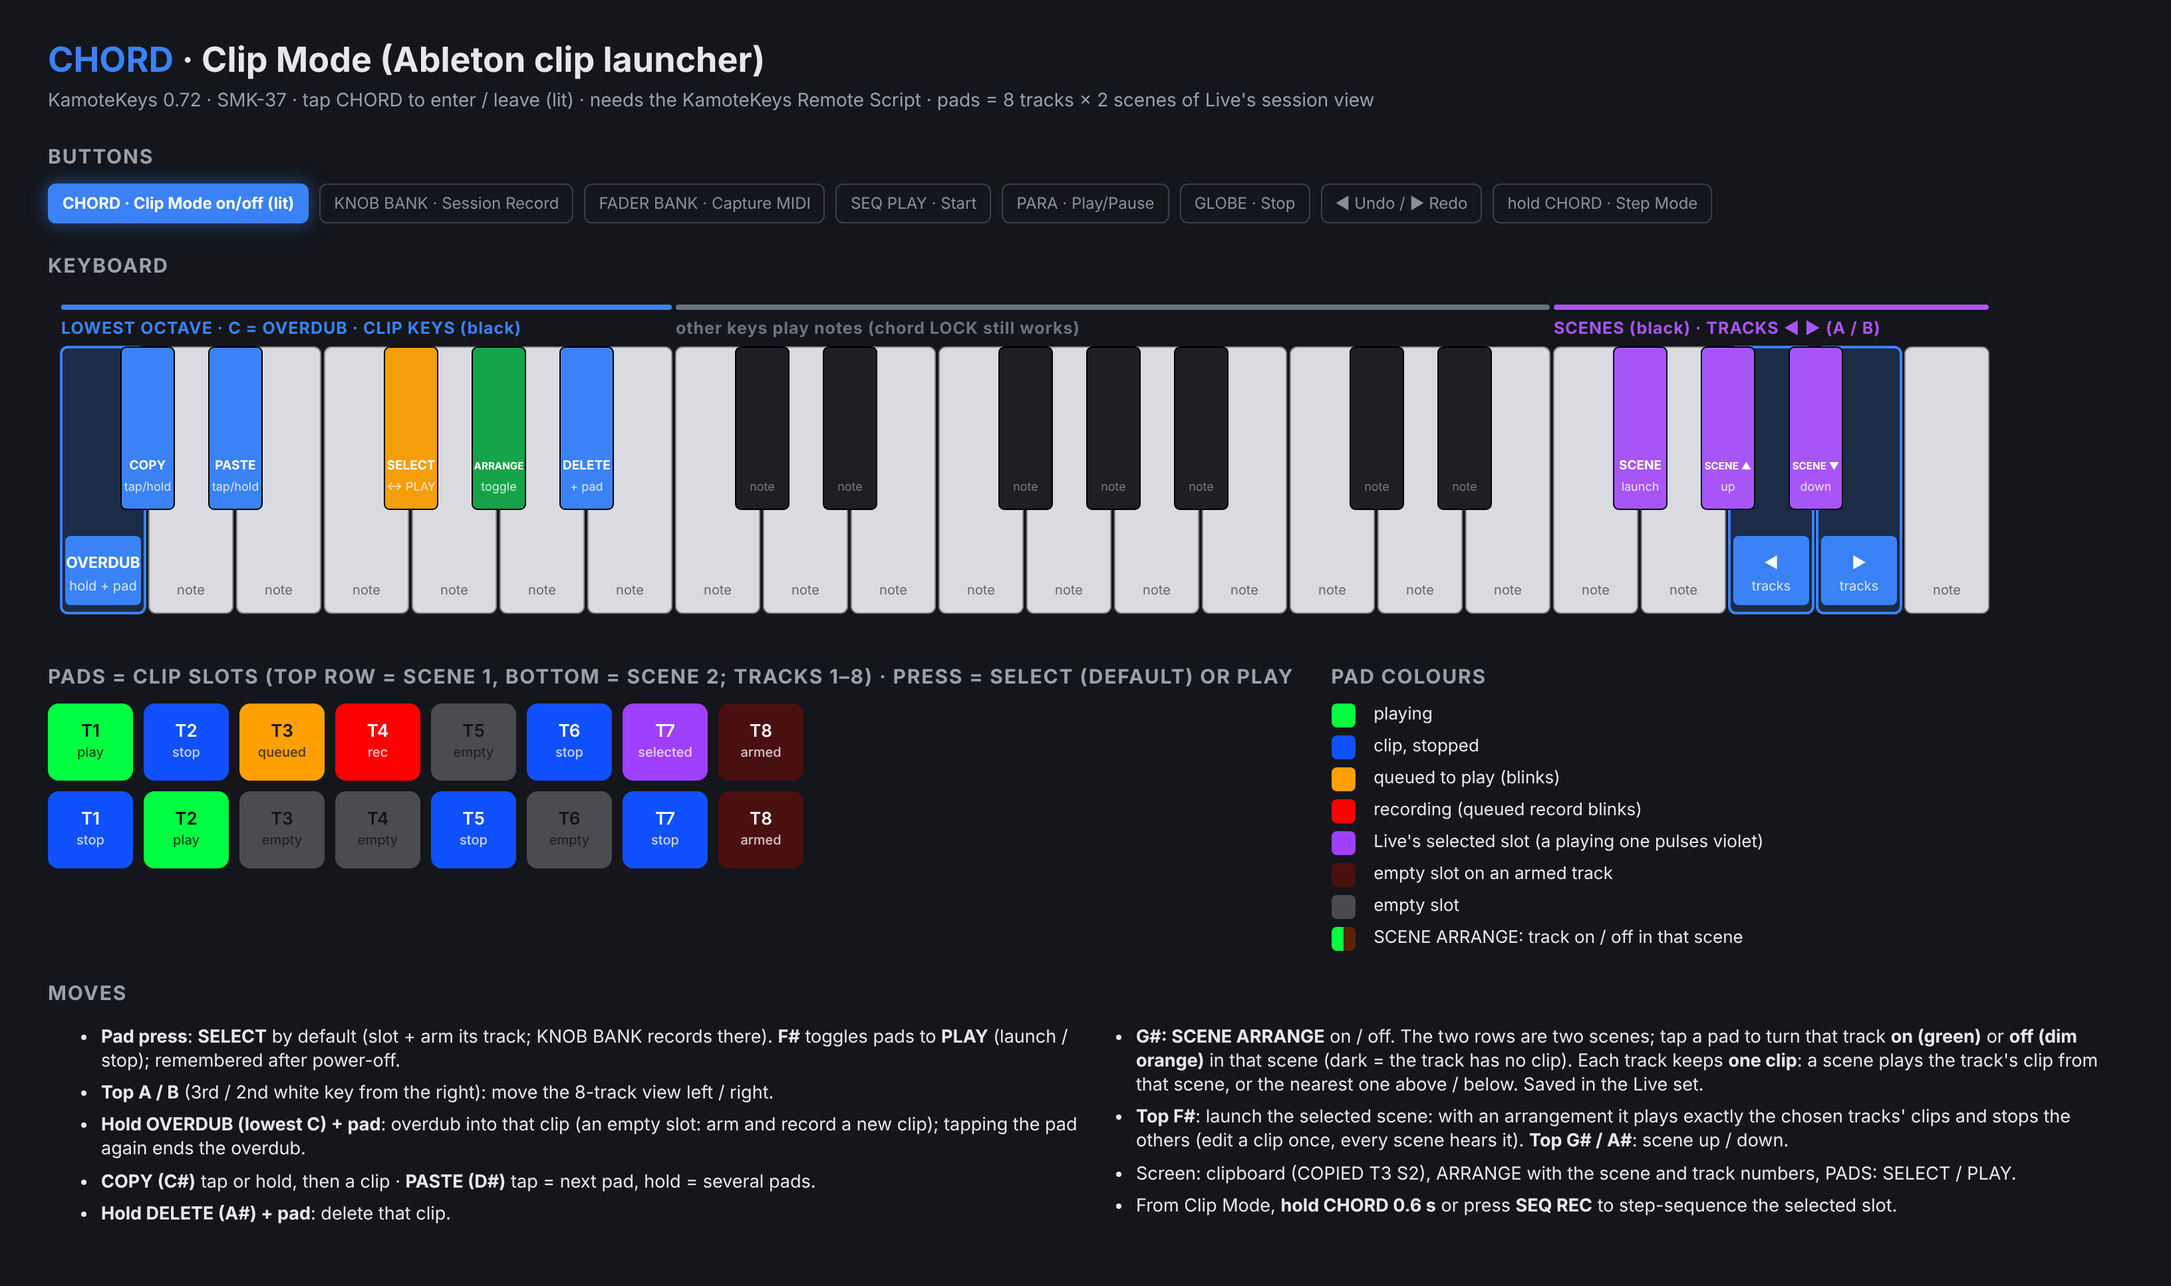
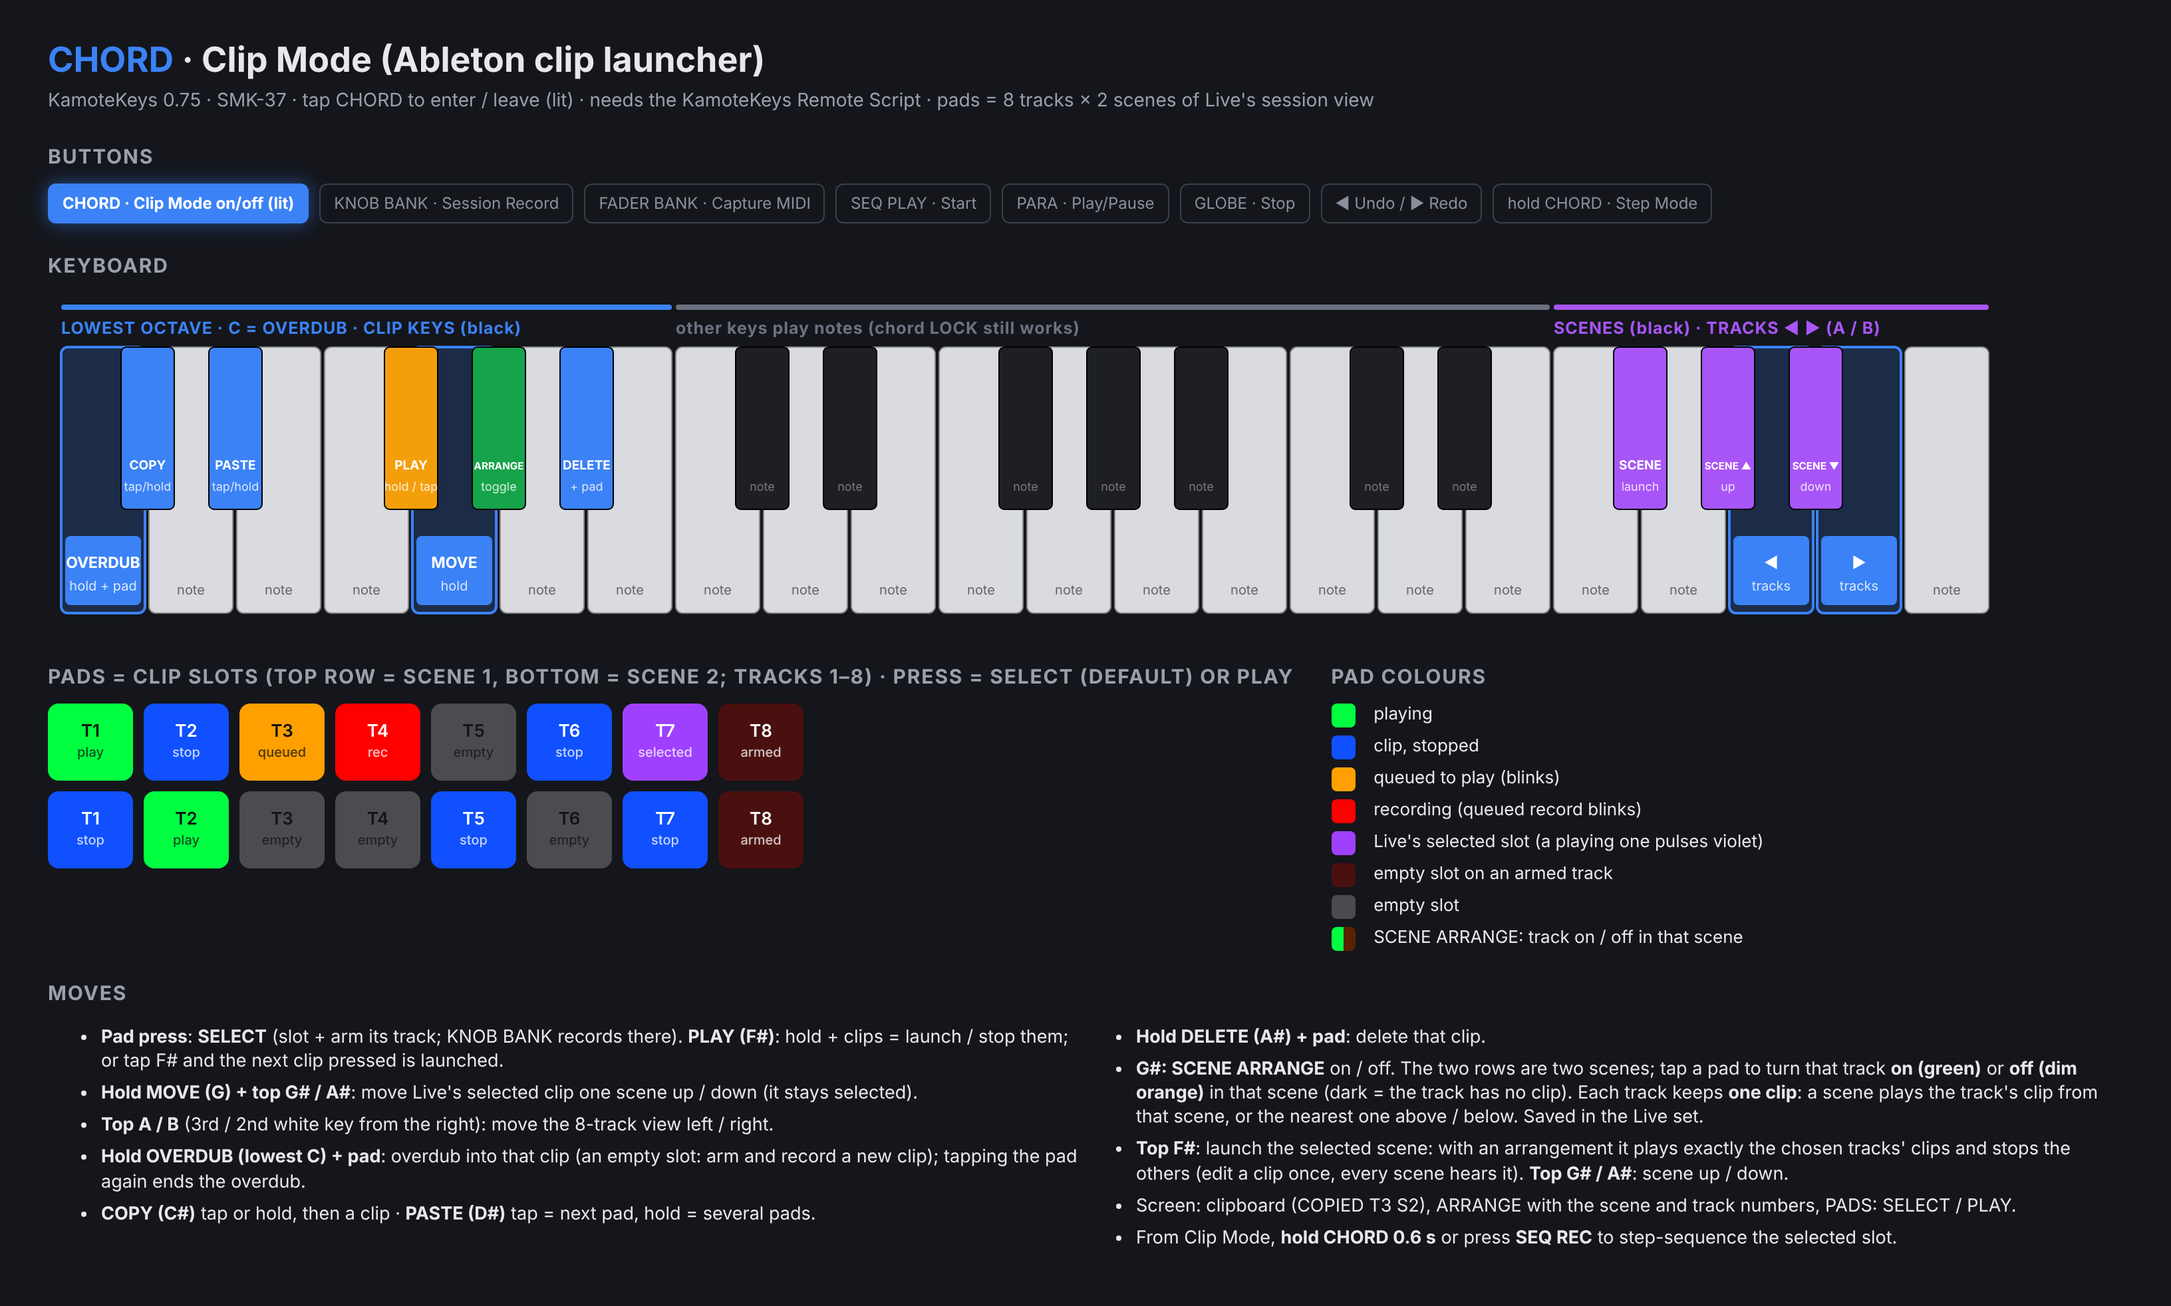
KamoteKeys 0.75: Clip Mode PLAY key (hold / tap + clip), move the selected clip with G + top G#/A#
Claude-Session: https://claude.ai/code/session_014nKCDtX9z2HT4cnrjTFgfW

diff --git a/remote_script/KamoteKeys/KamoteKeys.py b/remote_script/KamoteKeys/KamoteKeys.py
@@ -55,6 +55,7 @@ COPY_CLIP = 1
 ARRANGE_NOTE = 102                     # 0.66: Scene Arrange on / off
 TRACKS_CC, ARRANGE_CC = 109, 110       # first track shown, Scene Arrange on (to the keyboard)
 CC_TRACKS_LEFT, CC_TRACKS_RIGHT = 31, 32
+CC_CLIP_UP, CC_CLIP_DOWN = 33, 34       # 0.75: move Live's selected clip a scene up / down
 ARR_ON, ARR_OFF, ARR_NONE = 7, 8, 9
 ARRANGE_KEY = 'kamotekeys_arrange'     # per-scene track lists, saved in the Live set
 STEP_TIMEOUT = 6.0                     # s without a Step Mode heartbeat: leave it
@@ -69,7 +70,8 @@ CC_START, CC_STOP, CC_CAPTURE, CC_UNDO, CC_RECORD, CC_REDO = 20, 21, 22, 24, 25,
 CC_PLAY_PAUSE, CC_METRONOME = 23, 26
 CC_SCENE_DOWN, CC_SCENE_UP, CC_SCENE_LAUNCH = 28, 29, 30
 TRANSPORT_CCS = (CC_START, CC_STOP, CC_CAPTURE, CC_UNDO, CC_RECORD, CC_REDO, CC_PLAY_PAUSE, CC_METRONOME,
-                 CC_SCENE_DOWN, CC_SCENE_UP, CC_SCENE_LAUNCH, CC_TRACKS_LEFT, CC_TRACKS_RIGHT)
+                 CC_SCENE_DOWN, CC_SCENE_UP, CC_SCENE_LAUNCH, CC_TRACKS_LEFT, CC_TRACKS_RIGHT,
+                 CC_CLIP_UP, CC_CLIP_DOWN)
 
 EMPTY, STOPPED, PLAYING, QUEUED, RECORDING, QUEUED_RECORD, EMPTY_ARMED = range(7)
 FULL_REFRESH_TICKS = 50      # update_display runs ~10 Hz: full resend every ~5 s
@@ -376,6 +378,47 @@ class KamoteKeys(ControlSurface):
             pass
         self._status('KamoteKeys: launch scene %s' % ('?' if index is None else index + 1))
 
+    # ------------------------------------------------- move a clip (0.75)
+    def _move_clip(self, delta):
+        """Move Live's selected clip one scene up / down (into an empty slot;
+        an occupied slot is swapped with it). The moved clip stays selected."""
+        song = self.song()
+        view = song.view
+        tracks = list(song.visible_tracks)
+        t = next((i for i, x in enumerate(tracks) if self._same(x, view.selected_track)), None)
+        scenes = list(song.scenes)
+        s = next((i for i, x in enumerate(scenes) if self._same(x, view.selected_scene)), None)
+        if t is None or s is None:
+            self._status('KamoteKeys: select a clip to move')
+            return
+        slots = list(tracks[t].clip_slots)
+        target = s + delta
+        if not (0 <= target < len(slots)) or not slots[s].has_clip:
+            self._status('KamoteKeys: no clip to move there')
+            return
+        source, dest = slots[s], slots[target]
+        try:
+            if dest.has_clip:
+                # Swap through the source: keep a copy of the target in a new scene, then put it back.
+                song.create_scene(-1)
+                spare = list(tracks[t].clip_slots)[-1]
+                dest.duplicate_clip_to(spare)
+                source.duplicate_clip_to(dest)
+                spare.duplicate_clip_to(source)
+                spare.delete_clip()
+                song.delete_scene(len(list(song.scenes)) - 1)
+            else:
+                source.duplicate_clip_to(dest)
+                source.delete_clip()
+            view.selected_scene = list(song.scenes)[target]
+            view.highlighted_clip_slot = dest
+            if not (self._scene <= target < self._scene + SCENES):
+                self._scene = max(0, min(len(scenes) - SCENES, target if delta > 0 else target - 1))
+                self._send_all()
+            self._status('KamoteKeys: moved %s to scene %d' % (tracks[t].name, target + 1))
+        except Exception as error:
+            self._status('KamoteKeys: cannot move the clip (%s)' % error)
+
     # ------------------------------------------------- tracks view (0.66)
     def _move_tracks(self, delta):
         count = len(list(self.song().visible_tracks))
@@ -625,6 +668,8 @@ class KamoteKeys(ControlSurface):
             self._scroll(-1)
         elif cc == CC_SCENE_LAUNCH:
             self._launch_scene()
+        elif cc in (CC_CLIP_UP, CC_CLIP_DOWN):
+            self._move_clip(-1 if cc == CC_CLIP_UP else 1)
         elif cc in (CC_TRACKS_LEFT, CC_TRACKS_RIGHT):
             self._move_tracks(-1 if cc == CC_TRACKS_LEFT else 1)
         elif cc == CC_RECORD:

diff --git a/tests/host/test_live.c b/tests/host/test_live.c
@@ -74,14 +74,23 @@ void test_031(void)
     host_clear(); pad(3, 110);
     CHECK(out_count(USB, 0x9F, 84 + 2) == 1 && host_local_n == 0, "pad 3 -> select note 86 ch16 (default), never the synth");
     pad(3, 0); CHECK(out_count(USB, 0x8F, 84 + 2) == 1, "release -> note off");
+    /* 0.75: F# = PLAY key. Tap: the next clip pressed is launched, then select again. */
     host_clear(); key(6, 100); key(6, 0); pad(3, 110); pad(3, 0);
-    CHECK(kk.clip_play && host_out_n == 2 && out_count(USB, 0x9F, 38) == 1, "F# toggles pads to play (silent key): pad 3 -> launch note 38");
-    host_clear(); tap(KK_BTN_ARP); pad(3, 100); frames(300, 2); pad(3, 0); tap(KK_BTN_ARP);
+    CHECK(!kk.clip_play && host_out_n == 2 && out_count(USB, 0x9F, 38) == 1, "tap F#, pad 3 -> launch note 38 once (silent key)");
+    host_clear(); pad(3, 110); pad(3, 0);
+    CHECK(out_count(USB, 0x9F, 84 + 2) == 1, "next press selects again");
+    /* Hold F#: every clip pressed meanwhile is launched. */
+    host_clear(); key(6, 100); pad(3, 110); pad(3, 0); pad(4, 110); pad(4, 0); key(6, 0);
+    CHECK(out_count(USB, 0x9F, 38) == 1 && out_count(USB, 0x9F, 39) == 1 && !kk.clip_play, "hold F#: pads 3 and 4 launch, then select again");
+    key(6, 100); key(6, 0); key(6, 100); key(6, 0); CHECK(!kk.clip_play, "tap F# twice: cancelled");
+    host_clear(); tap(KK_BTN_ARP); key(6, 100); pad(3, 100); frames(300, 2); pad(3, 0); key(6, 0); tap(KK_BTN_ARP);
     CHECK(out_count(USB, 0x9F, 38) == 1, "ARP does not touch clip launches");
-    {
-        uint8_t d[16]; kamotkeys_settings_read(d); kk.clip_play = 0;
-        CHECK(kamotkeys_settings_apply(d) == 0 && kk.clip_play == 1, "select / play is saved");
-    }
+    /* 0.75: G held + top G# / A# = move Live's selected clip up / down (CC 33 / 34). */
+    host_clear(); key(7, 100); key(32, 100); key(32, 0); key(34, 100); key(34, 0); key(7, 0);
+    CHECK(out_count(USB, CC15, KK_CC_CLIP_UP) == 2 && out_count(USB, CC15, KK_CC_CLIP_DOWN) == 2 &&
+          out_count(USB, CC15, KK_CC_SCENE_UP) == 0 && out_count(USB, 0x90, -1) == 0, "G + top G# / A#: move the clip up / down, G silent");
+    host_clear(); key(32, 100); key(32, 0);
+    CHECK(out_count(USB, CC15, KK_CC_SCENE_UP) == 2, "without G: scene up as before");
     host_in(0xBF, KK_CLIP_HELLO_CC, 1);
     host_in(0xBF, KK_CLIP_STATE_CC + 0, KK_CLIP_PLAYING); host_in(0xBF, KK_CLIP_STATE_CC + 1, KK_CLIP_RECORDING);
     host_in(0xBF, KK_CLIP_STATE_CC + 2, KK_CLIP_STOPPED); host_in(0xBF, KK_CLIP_STATE_CC + 3, KK_CLIP_QUEUED);
@@ -142,7 +151,6 @@ void test_031(void)
     { unsigned ca, cb; CHECK(kk_midi_copy(&ca, &cb) == (KK_COPY_CLIP | 64) && ca == 3 && cb == 2, "clipboard from the script"); }
     frames(40, 5); shot("17b_clip_paste");
     host_in(0xBF, KK_COPY_KIND_CC, 0);
-    key(6, 100); key(6, 0);                                     /* back to select */
     /* 0.57: Live's highlighted slot shows violet (not amber/yellow). */
     host_in(0xBF, KK_CLIP_HELLO_CC, 1); host_in(0xBF, KK_CLIP_STATE_CC + 5, KK_CLIP_STOPPED); host_in(0xBF, KK_HOST_HIGHLIGHT_CC, 5);
     settle();

diff --git a/core/kk_controls.c b/core/kk_controls.c
@@ -161,7 +161,7 @@ static void intent(unsigned id, struct source *s)
         s->notes[0] = (uint8_t)(id == KK_CLIP_COPY_KEY ? KK_CLIP_COPY_NOTE : id == KK_CLIP_PASTE_KEY ? KK_CLIP_PASTE_NOTE : KK_CLIP_ARRANGE_NOTE);
         return;
     }
-    if (id < KK_KEYS && kk.mode == KK_MODE_CLIP && id == KK_CLIP_TOGGLE_KEY) return;   /* no note */
+    if (id < KK_KEYS && kk.mode == KK_MODE_CLIP && (id == KK_CLIP_TOGGLE_KEY || id == KK_CLIP_MOVE_KEY)) return;   /* no note */
     if (id < KK_KEYS && kk.mode == KK_MODE_CLIP && (id == KK_TRACKS_LEFT_KEY || id == KK_TRACKS_RIGHT_KEY)) {
         s->modifier = 0x4000U; s->channel = KK_CH_ABLETON;   /* 0.66: move the 8-track view */
         s->notes[0] = (uint8_t)(id == KK_TRACKS_LEFT_KEY ? KK_CC_TRACKS_LEFT : KK_CC_TRACKS_RIGHT);
@@ -179,6 +179,9 @@ static void intent(unsigned id, struct source *s)
         /* Clip Mode scene keys (ch 15 CC): launch, up, down. */
         s->modifier = 0x4000U; s->channel = KK_CH_ABLETON;
         s->notes[0] = (uint8_t)(id == KK_SCENE_LAUNCH_KEY ? KK_CC_SCENE_LAUNCH : id == KK_SCENE_UP_KEY ? KK_CC_SCENE_UP : KK_CC_SCENE_DOWN);
+        /* 0.75: with the MOVE key (G) held, up / down move Live's selected clip instead. */
+        if (KK_CLIP_MOVE_KEY < KK_KEYS && ((kk.keys >> (KK_CLIP_MOVE_KEY % 64U)) & 1U) && id != KK_SCENE_LAUNCH_KEY)
+            s->notes[0] = (uint8_t)(id == KK_SCENE_UP_KEY ? KK_CC_CLIP_UP : KK_CC_CLIP_DOWN);
         return;
     }
     if (id < KK_KEYS) {

diff --git a/tests/remote_script/test_kamotkeys_script.py b/tests/remote_script/test_kamotkeys_script.py
@@ -305,6 +305,17 @@ class T(unittest.TestCase):
         self.s._step_seen -= kk_mod.STEP_TIMEOUT + 1; self.s.update_display()
         self.assertFalse(self.s._step.active)
 
+    def test_move_clip_up_down(self):
+        """0.75: G + top G# / A# moves Live's selected clip a scene up / down."""
+        t = self.song._tracks[1]; src = t.clip_slots[0]; src.clip = Clip(src)
+        clip = src.clip
+        self.song.view.selected_track = TrackProxy(t); self.song.view.selected_scene = self.song.scenes[0]
+        deliver((0xBE, 34, 127))                                         # down
+        self.assertIsNone(t.clip_slots[0].clip); self.assertIs(t.clip_slots[1].clip, clip)
+        self.assertIs(self.song.view.selected_scene, self.song.scenes[1])
+        deliver((0xBE, 33, 127))                                         # up again
+        self.assertIs(t.clip_slots[0].clip, clip); self.assertIsNone(t.clip_slots[1].clip)
+
     def test_sync_request_resends_everything(self):
         self.s.sent.clear(); deliver((0xBF, 127, 127))
         self.assertIn((0xBF, HELLO_CC, 1), self.s.sent); self.assertEqual(len(self.s.sent), 26)   # hello, scene, tracks, arrange, tempo x2, highlight, 16 states, clipboard x3

diff --git a/devices/smk37/app/kamotkeys/kk_device.h b/devices/smk37/app/kamotkeys/kk_device.h
@@ -24,8 +24,8 @@ enum { KK_VELOCITY_DEFAULT = 100 };
  * G# nothing, A# DELETE (hold + pad); top F# / G# / A# = scene launch / up / down.
  * A plain pad press selects (slot + arm) unless toggled to play. */
 #define KK_CLIP_PRESS_SELECT 1
-enum { KK_CLIP_COPY_KEY = 1, KK_CLIP_PASTE_KEY = 3, KK_CLIP_TOGGLE_KEY = 6, KK_CLIP_ARRANGE_KEY = 8,   /* G#: Scene Arrange (0.66) */
-       KK_TRACKS_LEFT_KEY = 33, KK_TRACKS_RIGHT_KEY = 35,                                        /* top A / B: 8-track view (0.67) */
+enum { KK_CLIP_COPY_KEY = 1, KK_CLIP_PASTE_KEY = 3, KK_CLIP_TOGGLE_KEY = 6 /* F#: PLAY (hold / tap, 0.75) */, KK_CLIP_ARRANGE_KEY = 8,   /* G#: Scene Arrange (0.66) */
+       KK_TRACKS_LEFT_KEY = 33, KK_TRACKS_RIGHT_KEY = 35, KK_CLIP_MOVE_KEY = 7,   /* G held + top G# / A#: move the clip (0.75) */                                        /* top A / B: 8-track view (0.67) */
        KK_CLIP_DELETE_KEY = 10, KK_CLIP_OVERDUB_KEY = 0 };   /* 0.72: lowest C held + clip = OVERDUB */
 /* The third black key (F#) held + clip = SELECT (select the slot, arm its
  * track); the fourth (G#) = launch the selected scene; the last two black

diff --git a/core/kamotkeys/kk_config.h b/core/kamotkeys/kk_config.h
@@ -12,7 +12,7 @@
 #define KK_CONFIG_H
 
 #define KAMOTKEYS_NAME "KamoteKeys"
-#define KAMOTKEYS_VERSION "0.74" KK_DEVICE_SUFFIX
+#define KAMOTKEYS_VERSION "0.75" KK_DEVICE_SUFFIX
 #define KAMOTKEYS_TITLE KAMOTKEYS_NAME " " KAMOTKEYS_VERSION
 
 /* MIDI channels, zero based (channel 1 = 0). */
@@ -116,6 +116,7 @@ enum {
      * selected scene (fourth from the bottom). */
     KK_CC_SCENE_DOWN = 28, KK_CC_SCENE_UP = 29, KK_CC_SCENE_LAUNCH = 30,
     KK_CC_TRACKS_LEFT = 31, KK_CC_TRACKS_RIGHT = 32,   /* 0.66: move the 8-track view */
+    KK_CC_CLIP_UP = 33, KK_CC_CLIP_DOWN = 34,          /* 0.75: move Live's selected clip a scene up / down */
     /* Spare pads 5-8, 14-16 (0.43): mappable momentary buttons, CC 102-108
      * (undefined in the MIDI spec), 127 press / 0 release. */
     KK_CC_SPARE_BASE = 102

diff --git a/devices/fm1/app/kamotkeys/kk_device.h b/devices/fm1/app/kamotkeys/kk_device.h
@@ -32,7 +32,7 @@ enum { KK_VELOCITY_DEFAULT = 100 };
  * while pressing a clip = OVERDUB, the second (G#) = DELETE. */
 enum { KK_CLIP_OVERDUB_KEY = 1, KK_CLIP_DELETE_KEY = 3 };
 enum { KK_CLIP_COPY_KEY = 255, KK_CLIP_PASTE_KEY = 255, KK_CLIP_TOGGLE_KEY = 255, KK_CLIP_ARRANGE_KEY = 255,
-       KK_TRACKS_LEFT_KEY = 255, KK_TRACKS_RIGHT_KEY = 255 };   /* SMK-37 only */   /* SMK-37 only */
+       KK_TRACKS_LEFT_KEY = 255, KK_TRACKS_RIGHT_KEY = 255, KK_CLIP_MOVE_KEY = 255 };   /* SMK-37 only */   /* SMK-37 only */
 /* The third black key (A#) held + clip = SELECT (select the slot, arm its
  * track); the fourth (C#) = launch the selected scene; the last two black
  * keys (top D#, F#) = scene up, scene down. */

diff --git a/README.md b/README.md
@@ -160,7 +160,7 @@ The **second physical C** plays the selected tonic, at octave 0 the tonic in the
 
 ### Clip Mode (CHORD)
 
-Pads 1–8 launch clip 1 and pads 9–16 clip 2 of Live tracks 1–8, on channel 16, with LEDs that follow Live (empty very dim, stopped dim blue, playing green, queued blinking amber, recording red). Needs the [KamoteKeys Remote Script](docs/ABLETON_REMOTE_SCRIPT.md). A plain pad press **selects** the slot and arms its track (so KNOB BANK records there); the **F#** key toggles pads to **play** (launch / stop), remembered after power-off. Hold the **lowest C** + a clip to **overdub** into it. Lowest black keys: **C# COPY**, **D# PASTE** (tap = next pad, hold = several), F# select ↔ play, **G# Scene Arrange** (tap pads to choose which tracks play in each scene; top F# launches exactly those), **A# DELETE** (hold + clip); white **top A / B** move the 8-track view; top **F# / G# / A#** = scene launch / up / down. The screen shows what is copied. Live's highlighted slot is **violet**. Full guide: [docs/ABLETON_REMOTE_SCRIPT.md](docs/ABLETON_REMOTE_SCRIPT.md), [diagram](docs/diagrams/SMK37-Clip-Mode.png).
+Pads 1–8 launch clip 1 and pads 9–16 clip 2 of Live tracks 1–8, on channel 16, with LEDs that follow Live (empty very dim, stopped dim blue, playing green, queued blinking amber, recording red). Needs the [KamoteKeys Remote Script](docs/ABLETON_REMOTE_SCRIPT.md). A plain pad press **selects** the slot and arms its track (so KNOB BANK records there); **F#** is **PLAY**: hold it and press clips to launch / stop them, or tap it and the next clip pressed is launched. Hold **G** + top G# / A# to move Live's selected clip a scene up / down. Hold the **lowest C** + a clip to **overdub** into it. Lowest black keys: **C# COPY**, **D# PASTE** (tap = next pad, hold = several), F# select ↔ play, **G# Scene Arrange** (tap pads to choose which tracks play in each scene; top F# launches exactly those), **A# DELETE** (hold + clip); white **top A / B** move the 8-track view; top **F# / G# / A#** = scene launch / up / down. The screen shows what is copied. Live's highlighted slot is **violet**. Full guide: [docs/ABLETON_REMOTE_SCRIPT.md](docs/ABLETON_REMOTE_SCRIPT.md), [diagram](docs/diagrams/SMK37-Clip-Mode.png).
 
 ### Step Mode (SEQ REC, or hold CHORD)
 

diff --git a/docs/ABLETON_REMOTE_SCRIPT.md b/docs/ABLETON_REMOTE_SCRIPT.md
@@ -63,7 +63,8 @@ Live talks to the script on **one** MIDI port. In Preferences → Link, Tempo & 
 |---|---|
 | plain pad press | **SELECT** (default): selects the slot and **arms its track** (disarms the others), so the next Session Record (KNOB BANK) records there. Toggled to **PLAY** it launches / stops as in the table above |
 | **lowest C** (white) | hold + a clip: **overdub** into it (an empty slot: arm and record a new clip); the same again ends it (0.72) |
-| **F#** (3rd black) | pads: SELECT ↔ PLAY (remembered after power-off; the screen shows PADS: SELECT / PLAY) |
+| **F#** (3rd black) | **PLAY** (0.75): hold + clips = launch / stop them; tap, then the next clip pressed is launched (pads select otherwise) |
+| **G** (5th white) held + top **G# / A#** | move Live's selected clip one scene up / down (an occupied slot is swapped); it stays selected (0.75) |
 | **C#** COPY | tap (or hold), then press a clip: it becomes the clipboard (replacing the last one) |
 | **D#** PASTE | tap, then the next pad gets a copy of the clip (Live's Duplicate); hold PASTE to paste into several pads; tap again to cancel |
 | **A#** DELETE | hold + a clip: delete it |

diff --git a/CHANGELOG.md b/CHANGELOG.md
@@ -1,5 +1,10 @@
 # Changelog
 
+## KamoteKeys 0.75 (development snapshot)
+
+- **Clip Mode PLAY key (F#):** pads always select by default; hold F# and press clips to launch / stop them, or tap F# and the next clip pressed is launched (tap again to cancel). No longer a saved switch.
+- **Move a clip:** hold G (5th white key) and press the top G# / A# to move Live's selected clip one scene up / down (an occupied slot is swapped); the clip stays selected so you can keep moving it. Needs the updated Remote Script.
+
 ## KamoteKeys 0.74 (development snapshot)
 
 - **DELETE + bar deletes the bar** (Step Mode bar view): the bar is removed, the later bars move up and the clip gets one bar shorter. Hold the bar pad for 3 s to only clear its notes instead. Needs the updated Remote Script.
